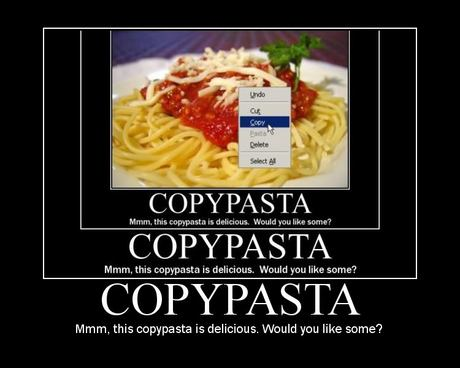
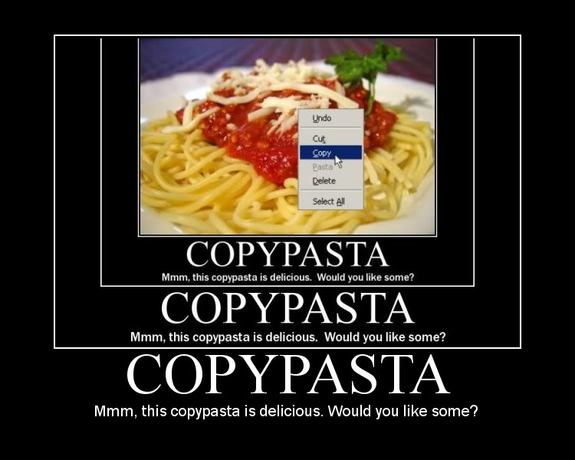
Restructuring a bit and shrinking and/or inlining the images.

diff --git a/_sass/custom/custom.scss b/_sass/custom/custom.scss
@@ -2,6 +2,35 @@
   margin-bottom: 2rem;
 }
 
-.main-content h1, .main-content h2, .main-content h3, .main-content h4, .main-content h5, .main-content h6 {
+.main-content h1,
+.main-content h2,
+.main-content h3,
+.main-content h4,
+.main-content h5,
+.main-content h6 {
   margin-bottom: 1em;
+}
+
+.main-content img.small {
+  max-height: 200px;
+}
+
+.main-content img.medium {
+  max-height: 300px;
+}
+
+.main-content img.large {
+  max-height: 400px;
+}
+
+@media only screen and (min-width: 900px) {
+  .main-content img.inline {
+    float: right;
+    margin-left: 1rem;
+    margin-bottom: 1rem;
+  }
+}
+
+.main-content img:hover {
+  cursor: pointer;
 }

diff --git a/_includes/head_custom.html b/_includes/head_custom.html
@@ -1,0 +1,3 @@
+<link rel="stylesheet" href="https://cdn.jsdelivr.net/npm/glightbox/dist/css/glightbox.min.css">
+<script src="https://cdn.jsdelivr.net/gh/mcstudios/glightbox/dist/js/glightbox.min.js"></script>
+<script type="text/javascript" src="{{ '/assets/js/mycode.js' | relative_url }}"></script>

diff --git a/assets/js/mycode.js b/assets/js/mycode.js
@@ -1,1 +1,5 @@
-console.log("this is it");
+document.addEventListener("DOMContentLoaded", function (event) {
+  if (GLightbox) {
+    GLightbox({ selector: "img" });
+  }
+});

diff --git a/docs/other/introduction-to-git-and-github/introduction-to-git-and-github.md b/docs/other/introduction-to-git-and-github/introduction-to-git-and-github.md
@@ -23,8 +23,6 @@ JSON data can be easily created and decoded in PHP, Javascript, and most other m
 
 ## Ctrl-Z to Undo
 
-![Ctrl-Z to Undo](backup-153008_640.png)
-
 Have you ever used CTRL-Z to undo a change you've made in a file?
 
 CTRL-Z lets us undo one or more changes in files we have open, but it has it's limitation.
@@ -36,8 +34,6 @@ CTRL-Z lets us undo one or more changes in files we have open, but it has it's l
 - What if you wanted to experiment with a series of changes and then revert back to a specific version of the file?
 
 ## Version Control
-
-![Version Control](documents-1920461_640.png)
 
 **Version control**, also known as **revision control** or **source control**, is the management of changes to documents like computer programs.
 
@@ -51,8 +47,6 @@ Some documents have more advanced version control built in. For example:
   ([Here's the history of the version control article](https://en.wikipedia.org/w/index.php?title=Version_control&action=history).)
 
 ## More Than Just Undo
-
-![More Than Just Undo](annie-spratt-608002-unsplash.jpg)
 
 Version control allows for more than just undoing things.
 
@@ -89,19 +83,21 @@ A few git resources:
 
 ## Fancy Version Control Words
 
-![Fancy Version Control Words](1761_image003.jpg)
-
 When discussing version control you'll need to know the definition of the following terms:
+
+- **CLI** - Command Line Interface. The "Terminal" or "Shell" of your operating system. Git is a CLI tool but there are also graphical (GUI) interfaces.
 
 - **Respository** - A collection of files and directories you are monitoring for changes using a version control tool. Sometimes shortened to **repo**.
 
 - **Hash** - A string of characters that acts like a digital fingerprint for a file or portion of a file. The type of hash used by git is [the SHA1 cryptographic hash](https://en.wikipedia.org/wiki/SHA-1).
 
-- **Graph** - A diagram of nodes connected by lines called edges. (See image.)
+- **Graph** - A diagram of nodes connected by lines called edges. (See image below.)
 
 - **DAG** - Directed Acyclic Graph. A graph were the edges are arrows (directed) and no matter which arrow you follow you can never travel in a circle (acyclic).
 
-- **CLI** - Command Line Interface. The "Terminal" or "Shell" of your operating system. Git is a CLI tool but there are also graphical (GUI) interfaces.
+Here's an example image of a Directed Acyclic Graph:
+
+![Fancy Version Control Words](1761_image003.jpg)
 
 ## Initializing a Repository
 
@@ -121,7 +117,7 @@ To compare the **diff**erences between the current files and the last commit:
 
 ## Change Management with Git
 
-![Change Management with Git](git-lifecycle.png)
+![Change Management with Git](git-lifecycle.png){:class="medium"}
 
 As we make changes to our source code we need to **commit** these changes to our git repository.
 
@@ -143,7 +139,7 @@ Wilcards work too:
 
 ## Git Commits and the Git Log
 
-![Git Commits and the Git Log](commit.png)
+![Git Commits and the Git Log](commit.png){:class="small"}
 
 A repo's commits can be reviewed by running:
 
@@ -160,7 +156,7 @@ The image to the right shows two entries from a git log. The 40 character hex nu
 
 ## Branching
 
-![Branching](feature-branch.png)
+![Branching](feature-branch.png){:class="large inline"}
 
 Branches in git give you a safe space to work on new features. The main branch of your repository is called the master branch.
 
@@ -180,11 +176,11 @@ To delete a branch: `git branch -d branch-to-delete`
 
 ## Distributed Versioning with Github
 
-![Distributed Versioning with Github](github_new.png)
-
 To save your git repository to your GitHub account, create a new repository by way of the "create a new repo" button in the top corner of the GitHub website.
 
-**IMPORTANT**: Be sure _not_ to click the checkbox to add an initial README file.
+**IMPORTANT**: Be sure _not_ to click the checkbox to initialize with a README or with any other files.
+
+![Distributed Versioning with Github](github_new.png){:class="medium"}
 
 Let's say you've created a new repo called "rails_project" and you've already initialized this project's git repository.
 
@@ -200,7 +196,7 @@ When ever you want to push the latest state of your repo to Github:
 
 ## Undoing Things in Git
 
-![Undoing Things in Git](ctrlz.jpg)
+![Undoing Things in Git](ctrlz.jpg){:class="large inline"}
 
 In Git, undo can mean a few different things depending on what you wish to undo.
 
@@ -208,4 +204,4 @@ Learn more about undoing with git:
 
 - [Undoing Changes wit Git](https://www.atlassian.com/git/tutorials/undoing-changes/git-clean)
 - [How to undo (almost) anything with Git](https://github.com/blog/2019-how-to-undo-almost-anything-with-git)
-- [On undoing, fixing, or removing commits](http://sethrobertson.github.io/GitFixUm/fixup.html) - A git choose-your-own-adventure!
+- [On undoing, fixing, or removing commits](http://sethrobertson.github.io/GitFixUm/fixup.html) - A git "choose your own adventure"!

diff --git a/docs/javascript/javascript-codepen-test.md b/docs/javascript/javascript-codepen-test.md
@@ -1,7 +1,7 @@
 ---
-id: javascript-codepen-test 
+id: javascript-codepen-test
 title: Javascript Codepen Test
-nav_order: 99 
+nav_order: 99
 ---
 
 # Javascript Codepen Test
@@ -10,7 +10,7 @@ The new React notes include a number of React examples embedded as Codepens. Thi
 
 ## Code Pen Test #1 - HTML Embed With Javascript
 
-This codepen is embedded as an HTML placeholder with a Javascrpt `<script>` tag used to actually embed the pen. 
+This codepen is embedded as an HTML placeholder with a Javascrpt `<script>` tag used to actually embed the pen.
 
 <p class="codepen" data-height="350" data-theme-id="light" data-default-tab="js,result" data-user="stungeye" data-slug-hash="dyGprML" style="height: 350px; box-sizing: border-box; display: flex; align-items: center; justify-content: center; border: 2px solid; margin: 1em 0; padding: 1em;" data-pen-title="React Countries Basic">
   <span>See the Pen <a href="https://codepen.io/stungeye/pen/dyGprML">
@@ -19,7 +19,7 @@ This codepen is embedded as an HTML placeholder with a Javascrpt `<script>` tag 
 </p>
 <script async src="https://static.codepen.io/assets/embed/ei.js"></script>
 
-## Code Pen Test #2 - Iframe Embed 
+## Code Pen Test #2 - Iframe Embed
 
 Here is the same codepen embedded as an Iframe. Works without any extra JS.
 
@@ -32,6 +32,7 @@ Here is the same codepen embedded as an Iframe. Works without any extra JS.
 
 Here is the same Iframed pen, but with the results tab initially hidden due to width constraints. This feels like the route to take as the code is much more readable with the initial extra width. Once students have read the code they can toggle the results tab on.
 
-<iframe height="350" style="width: 100%;" scrolling="no" title="React Countries Basic" src="https://codepen.io/stungeye/embed/dyGprML?height=265&theme-id=light&default-tab=js" frameborder="no" loading="lazy" allowtransparency="true" allowfullscreen="true">
+<iframe height="350" style="width: 100%;" scrolling="no" title="React Countries Basic" src="https://codepen.io/stungeye/embed/dyGprML?height=&theme-id=light&default-tab=js" frameborder="no" loading="lazy" allowtransparency="true" allowfullscreen="true">
   See the Pen <a href='https://codepen.io/stungeye/pen/dyGprML'>React Countries Basic</a> by Kyle Geske
   (<a href='https://codepen.io/stungeye'>@stungeye</a>) on <a href='https://codepen.io'>CodePen</a>.
+</iframe>

diff --git a/docs/php/php-and-mysql/your-database-php-and-mysql.md b/docs/php/php-and-mysql/your-database-php-and-mysql.md
@@ -19,9 +19,9 @@ These day we rarely code a complex PHP application that does not make use of a d
 
 ## Introduction
 
-PHP and MySQL play _very_ nicely together. In this module you will be using the PHP Data Objects extension (PDO) to connect your PHP scripts to a MySQL database.
+![PHP + MySQL = BFF!](friend1.jpg){:class="small inline"}
 
-![Database-Backed PHP Apps](friend1.jpg)
+PHP and MySQL play _very_ nicely together. In this module you will be using the PHP Data Objects extension (PDO) to connect your PHP scripts to a MySQL database.
 
 PHP + MySQL = Best Friends Forever!
 
@@ -39,7 +39,7 @@ By the end of this module, you will be able to:
 
 ## Setting Up Our Tables
 
-![Setting Up Our Tables](42-21106586.jpg)
+![Setting Up Our Tables](42-21106586.jpg){:class="small"}
 
 All the database tables we use in this class must contain a column named `id`. This `id` column should be:
 
@@ -408,8 +408,6 @@ These notes cover the basics of using PDO with a MySQL database. Here are some l
 
 ## Google Coding AKA Copypasta
 
-![Google Coding AKA Copypasta](copypasta.jpg)
-
 In this course we are _only_ using PDO for database access.
 
 Be wary of example code you find online that uses the _mysql_ or _mysqli_ extensions.
@@ -417,3 +415,5 @@ Be wary of example code you find online that uses the _mysql_ or _mysqli_ extens
 **Code written using the _mysql_ and _mysqli_ extensions will not be accepted for challenges or assignments.**
 
 If you wish to use a database abstraction other that PDO for you work, please ask for special permission from your instructor.
+
+![Google Coding AKA Copypasta](copypasta.jpg){:class="large"}

diff --git a/docs/other/http-and-the-web/http-and-the-web.md b/docs/other/http-and-the-web/http-and-the-web.md
@@ -19,7 +19,7 @@ HTTP, the Hypertext Transfer Protocol, is the network protocol of the Web. It is
 
 ## Introduction
 
-![Introduction](first_web_server.jpg)
+![The First Web Server](first_web_server.jpg){:class="small inline"}
 
 The sticker in this photo appears on [the world's first web server](http://www.flickr.com/photos/scobleizer/2251820987/). That's the handwriting of Sir Tim Berners-Lee's on the computer that he used to invent the World Wide Web.
 
@@ -44,7 +44,7 @@ Upon completion of this module, you should be able to:
 
 ## Hypertext Transfer Protocol
 
-![Hypertext Transfer Protocol](url.jpg)
+![Hypertext Transfer Protocol](url.jpg){:class="small inline"}
 
 HTTP stands for Hypertext Transfer Protocol. It is the network protocol used to transfer all files and other data (collectively called _resources_) on the World Wide Web. There resources can be files, images, dynamically-generated web-pages, or any other data that can be identified using a URL (Uniform Resource Locator).
 
@@ -110,7 +110,7 @@ All HTTP responses sent by a server will include an HTTP status code. Some of th
 
 ## HTTP Headers
 
-![HTTP Headers](firebug_headers.png)
+![HTTP Headers](firebug_headers.png){:class="medium inline"}
 
 HTTP requests and responses are often accompanied by header lines. These headers contain the operating parameters of an HTTP request or response. This information is normally hidden from the user, however we can see it if we peak at an HTTP request/response using the Firebug plugin.
 

diff --git a/docs/javascript/dynamic-content-with-ajax/dynamic-content-with-ajax.md b/docs/javascript/dynamic-content-with-ajax/dynamic-content-with-ajax.md
@@ -1,6 +1,6 @@
 ---
 title: Dynamic Content with AJAX
-nav_order: 6
+nav_order: 7
 ---
 
 <!-- prettier-ignore-start -->
@@ -46,8 +46,6 @@ In Javascript this is accomplished by registering a data-handling function to ex
 
 ## The X Stands for JSON
 
-![The X Stands for JSON](AJAX_logo_by_gengns.svg.png)
-
 AJAX stands for **A**synchronous **J**avaScript **A**nd **X**ML.
 
 The term AJAX was first proposed in 2005 to describe the use of Javascript to load extra data from a server into an HTML document.
@@ -89,8 +87,6 @@ button.addEventListener("click", (event) => {
 Arrow functions are more than just a short form for function definition. Be sure that you understand [the how, why and when of arrow functions](https://zendev.com/2018/10/01/javascript-arrow-functions-how-why-when.html) before you start using them in your code.
 
 ## But You Promised!
-
-![But You Promised!](promise-quote.jpg)
 
 Promises are a recent addition to Javascript that represent the _eventual_ result of an asynchronous operation.
 
@@ -323,7 +319,7 @@ The `await` keyword makes Javascript wait until a promise is settled before the 
 
 ## Now What???
 
-![Now What???](email-error.png)
+![AJAX Form Validation](email-error.png){:class="medium inline"}
 
 Now that we've gathered data using the `Fetch` API, what do we do with it?
 

diff --git a/docs/javascript/json-javascript-object-notation/json-javascript-object-notation.md b/docs/javascript/json-javascript-object-notation/json-javascript-object-notation.md
@@ -1,6 +1,6 @@
 ---
 title: Javascript Object Notation
-nav_order: 7
+nav_order: 6
 ---
 
 <!--prettier-ignore-start-->
@@ -97,7 +97,6 @@ Using PHP we might encode our people data using nested hashes and arrays, like t
 
 ```php
 <?php
-```
 
 $people = [['name'    => 'Wally Glutton',
               'age'     => 40,
@@ -113,6 +112,7 @@ $people = [['name'    => 'Wally Glutton',
 'postal_code' => 'R3R 2B2']]];
 
 ?>
+```
 
 ## Structured Data in JS - Arrays & Objects
 
@@ -177,7 +177,7 @@ JSON can also be minified (all whitespace removed) to be more efficient to trans
 
 ## JSON Building Blocks
 
-![JSON Building Blocks](value.png)
+![JSON Building Blocks](value.png){:class="small"}
 
 Although JSON is Javascript, there are some extra constraints.
 
@@ -196,7 +196,7 @@ Note that both Arrays and Objects can be nested within the JSON data.
 
 ## Javascript Objects and Arrays
 
-![Javascript Objects and Arrays](object_and_array.png)
+![Javascript Objects and Arrays](object_and_array.png){:class="small"}
 
 Since a JSON structure must be contained in either an Object or an Array it's worth revisiting these structures.
 

diff --git a/docs/php/cookies-and-session/cookies-and-session.md b/docs/php/cookies-and-session/cookies-and-session.md
@@ -36,7 +36,7 @@ Upon completion of this module, you should be able to:
 
 ## The Stateless Nature of the Web
 
-![The Stateless Nature of the Web](http.jpg)
+![URLs start with HTTP](http.jpg){:class="small inline"}
 
 A fundamental characteristic of the Web is the stateless interaction between browsers and web servers.
 
@@ -52,7 +52,7 @@ This stateless nature suits applications that allow users to browse or search co
 
 ## Cookies
 
-![Cookies](Choc_Chip_Stack_Sidecookie.png)
+![Nomnomnomnomnomnomnom!](Choc_Chip_Stack_Sidecookie.png){:class="small inline"}
 
 Cookies are used to store user or application state in a web browser. The information is stored as a key / value pair, like in a hash.
 

diff --git a/docs/php/file-uploads-and-related-security-concerns/file-uploads-and-related-security-concerns.md b/docs/php/file-uploads-and-related-security-concerns/file-uploads-and-related-security-concerns.md
@@ -22,7 +22,7 @@ The upload files are stored in temporary directory with file details stored in a
 
 ## Introduction
 
-![Introduction](Upload.png)
+![Introduction](Upload.png){:class="small inline"}
 
 PHP makes it easy to upload files to our web server by way of an HTML form.
 
@@ -130,7 +130,7 @@ In order to save an uploaded file your PHP script must move it to a known locati
 
 ## Security Implications
 
-![Security Implications](NUCLEAR_DANGER.png)
+![Vulnerabilities Make Me Scream](NUCLEAR_DANGER.png){:class="small inline"}
 
 By allowing file uploads we are giving our users write-access to our file-system. This can be a very dangerous move.
 
